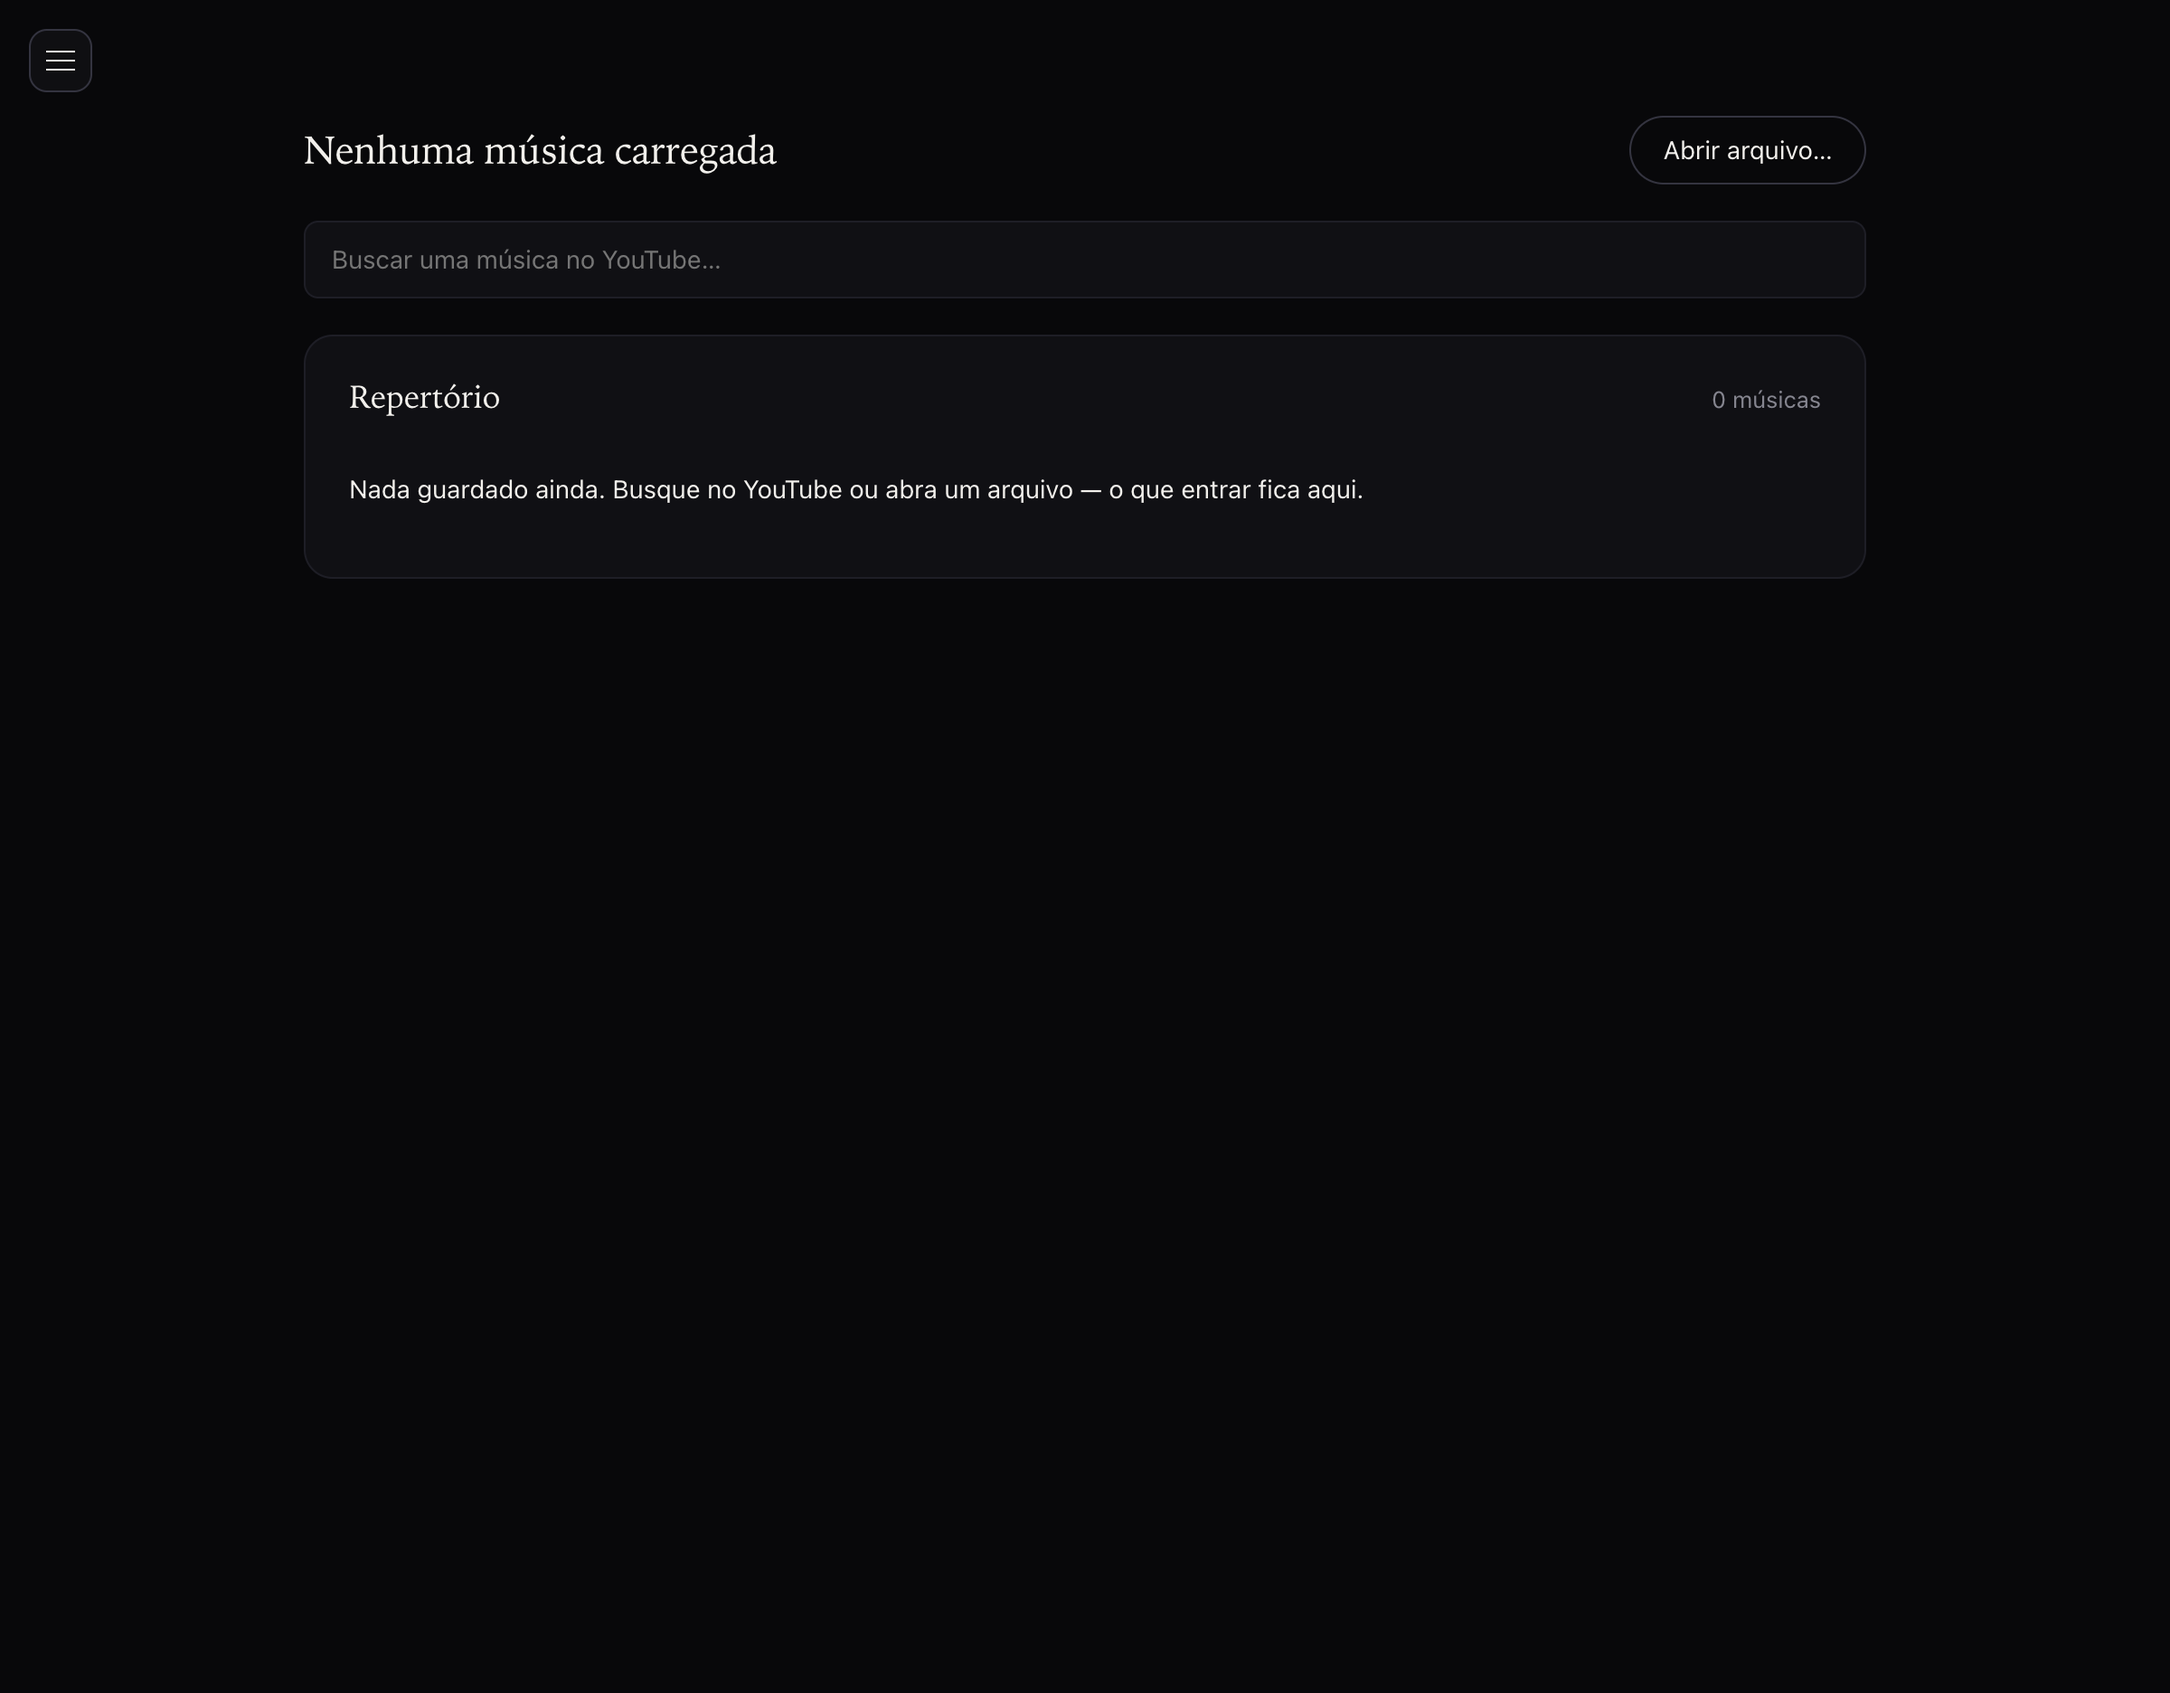
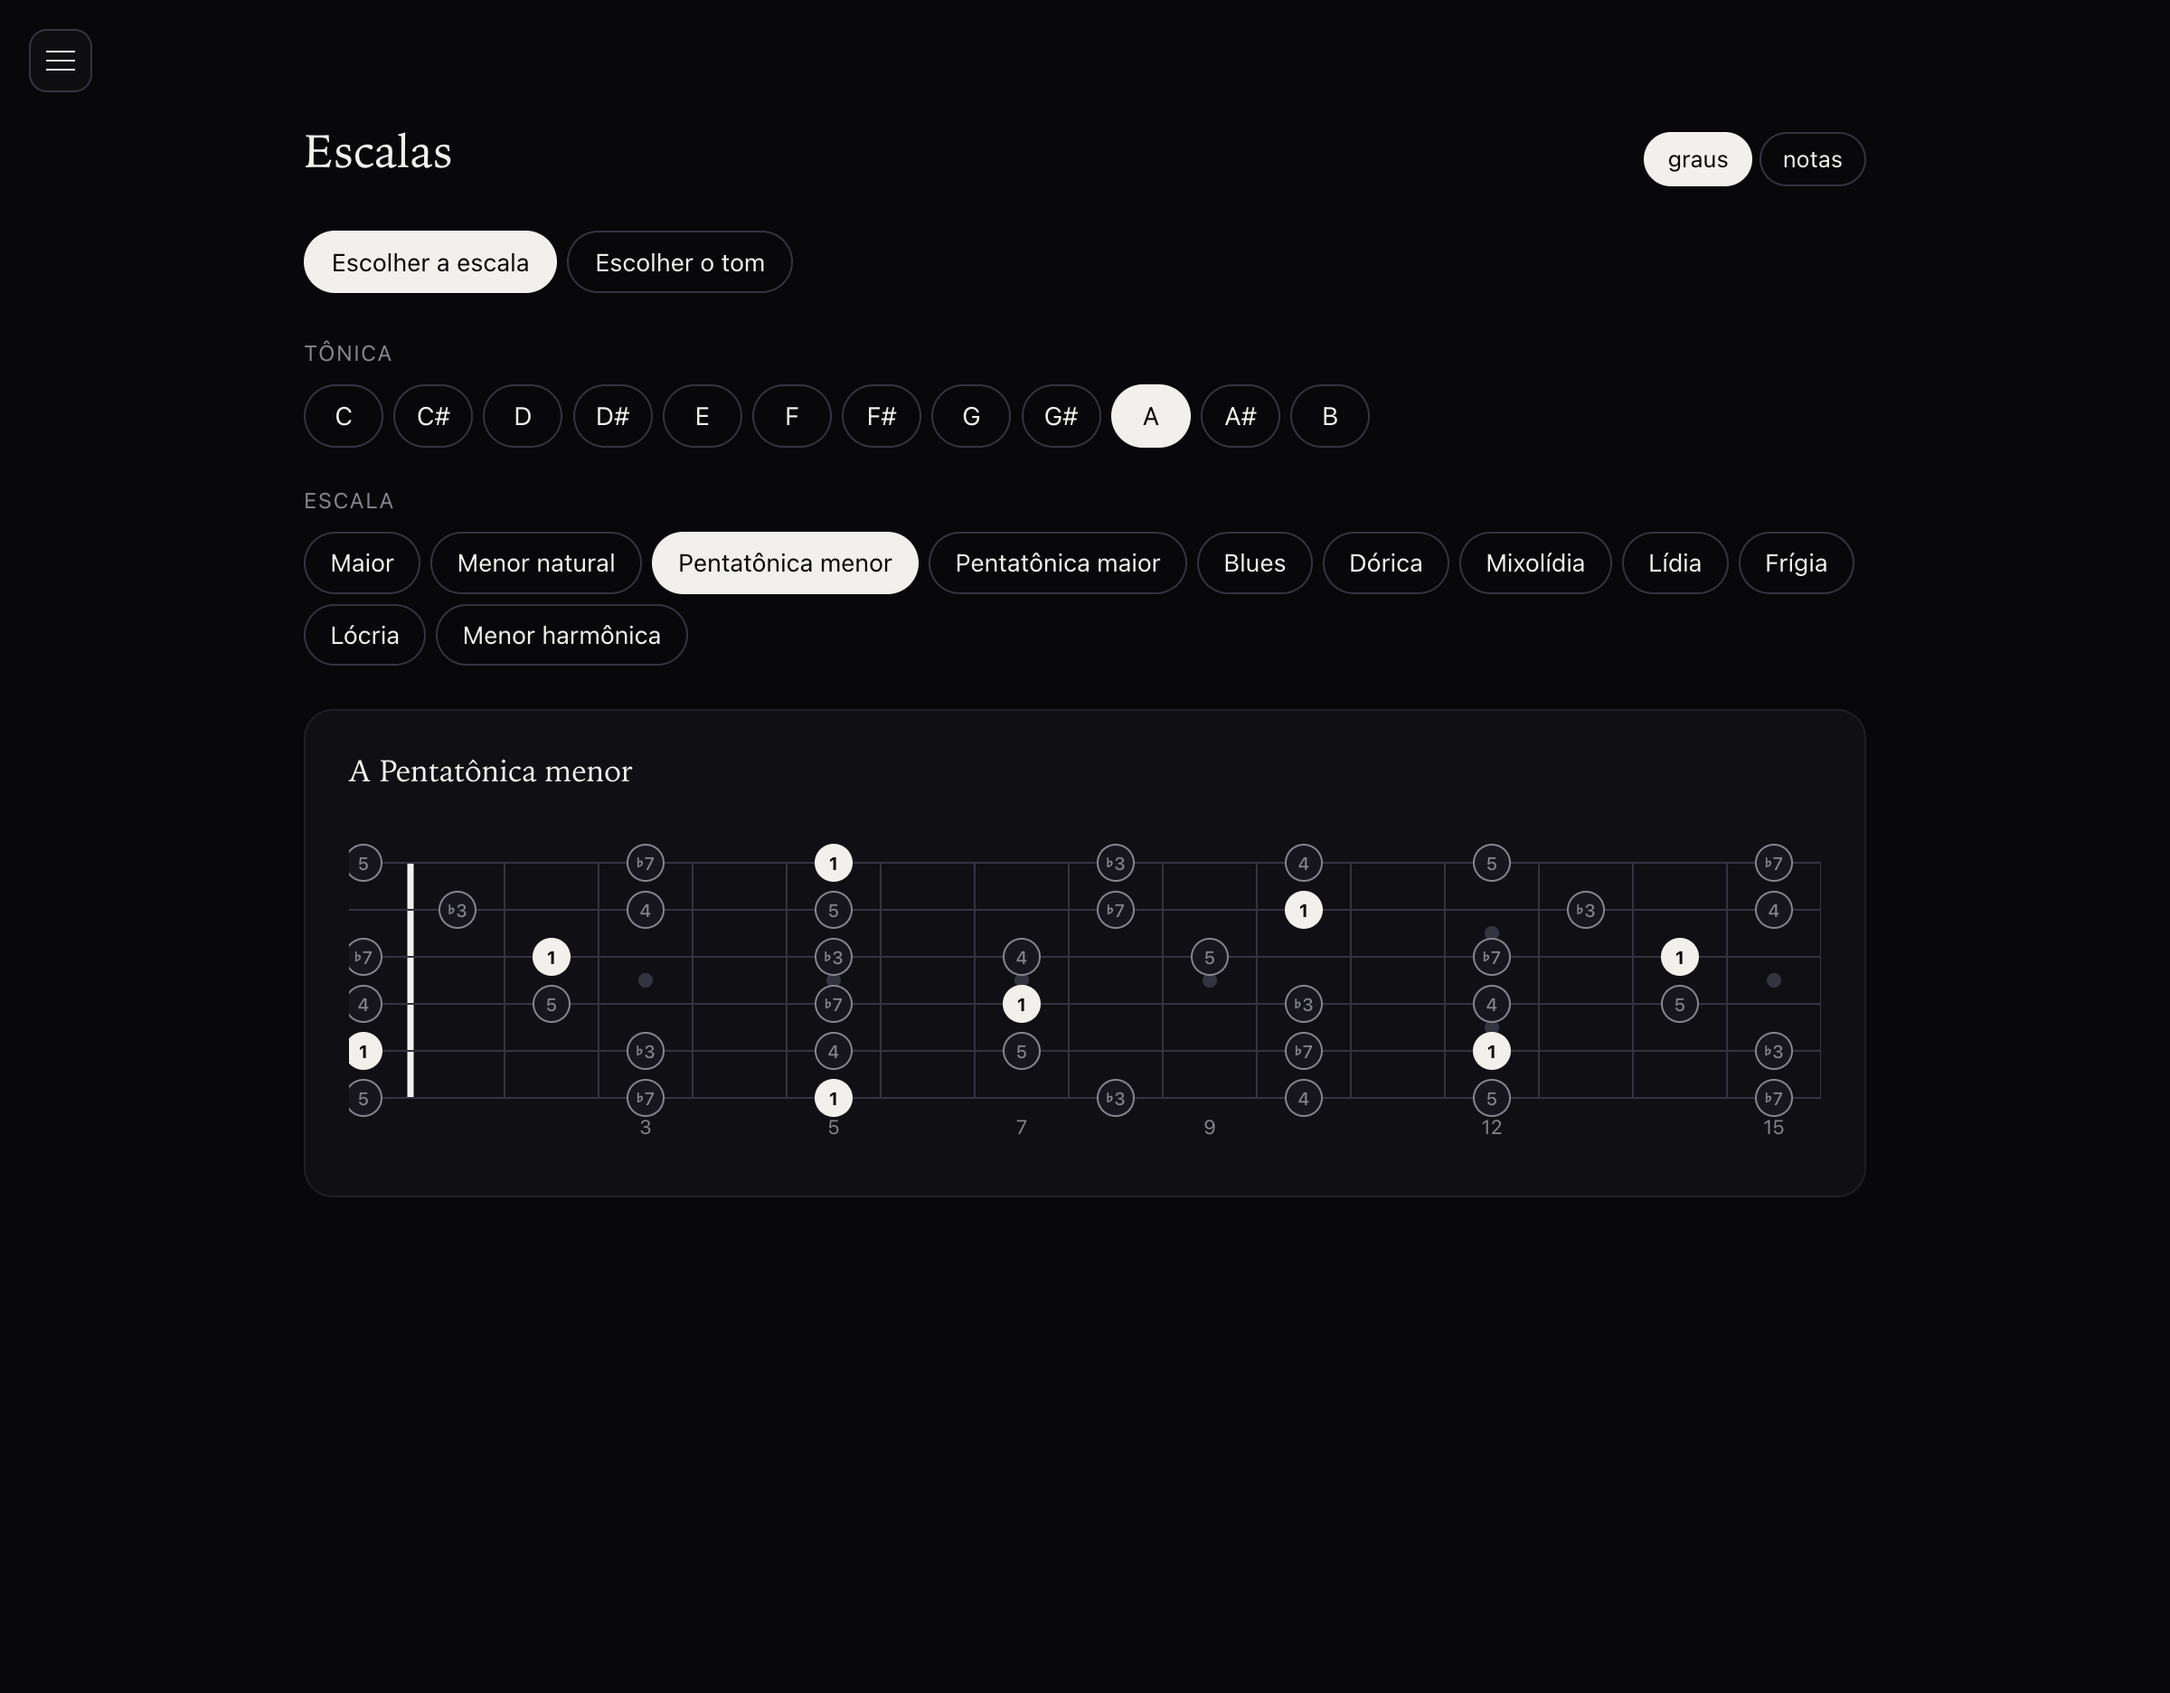
Ajusta descrição e preview do Made in Heaven

diff --git a/data.js b/data.js
@@ -139,8 +139,8 @@ window.PORTFOLIO = {
       title: "Made in Heaven",
       year: "2026",
       description: {
-        en: "A native desktop app that *listens to a song and shows the chords* — live, on a guitar neck, with nothing sent to a server. Paste a YouTube link or open a file: a Rust (Tauri) shell supervises a local Python worker running ML chord recognition, and results are cached by the audio's content hash. It also maps every scale across the fretboard and helps build chord progressions, suggesting what comes next.",
-        pt: "App desktop nativo que *escuta uma música e mostra os acordes* — ao vivo, num braço de guitarra, sem enviar nada para servidor. Cole um link do YouTube ou abra um arquivo: um shell em Rust (Tauri) supervisiona um worker Python local com reconhecimento de acordes por ML, e o resultado fica em cache pelo hash do conteúdo do áudio. Também mostra todas as escalas pelo braço e ajuda a montar progressões, sugerindo o próximo acorde.",
+        en: "A desktop app that *listens to a song and shows the chords* live on a guitar neck — fully local, nothing sent to a server. A Rust (Tauri) shell runs a Python ML worker for chord recognition; the app also maps scales across the fretboard and suggests chord progressions.",
+        pt: "App desktop que *escuta uma música e mostra os acordes* ao vivo num braço de guitarra — tudo local, nada enviado para servidor. Um shell em Rust (Tauri) roda um worker Python com ML para reconhecer acordes; o app também mostra escalas pelo braço e sugere progressões.",
       },
       tags: ["Rust", "Tauri", "Svelte", "Python", "AI"],
       link: "https://joaovictorbalvedi.github.io/made-in-heaven/",
